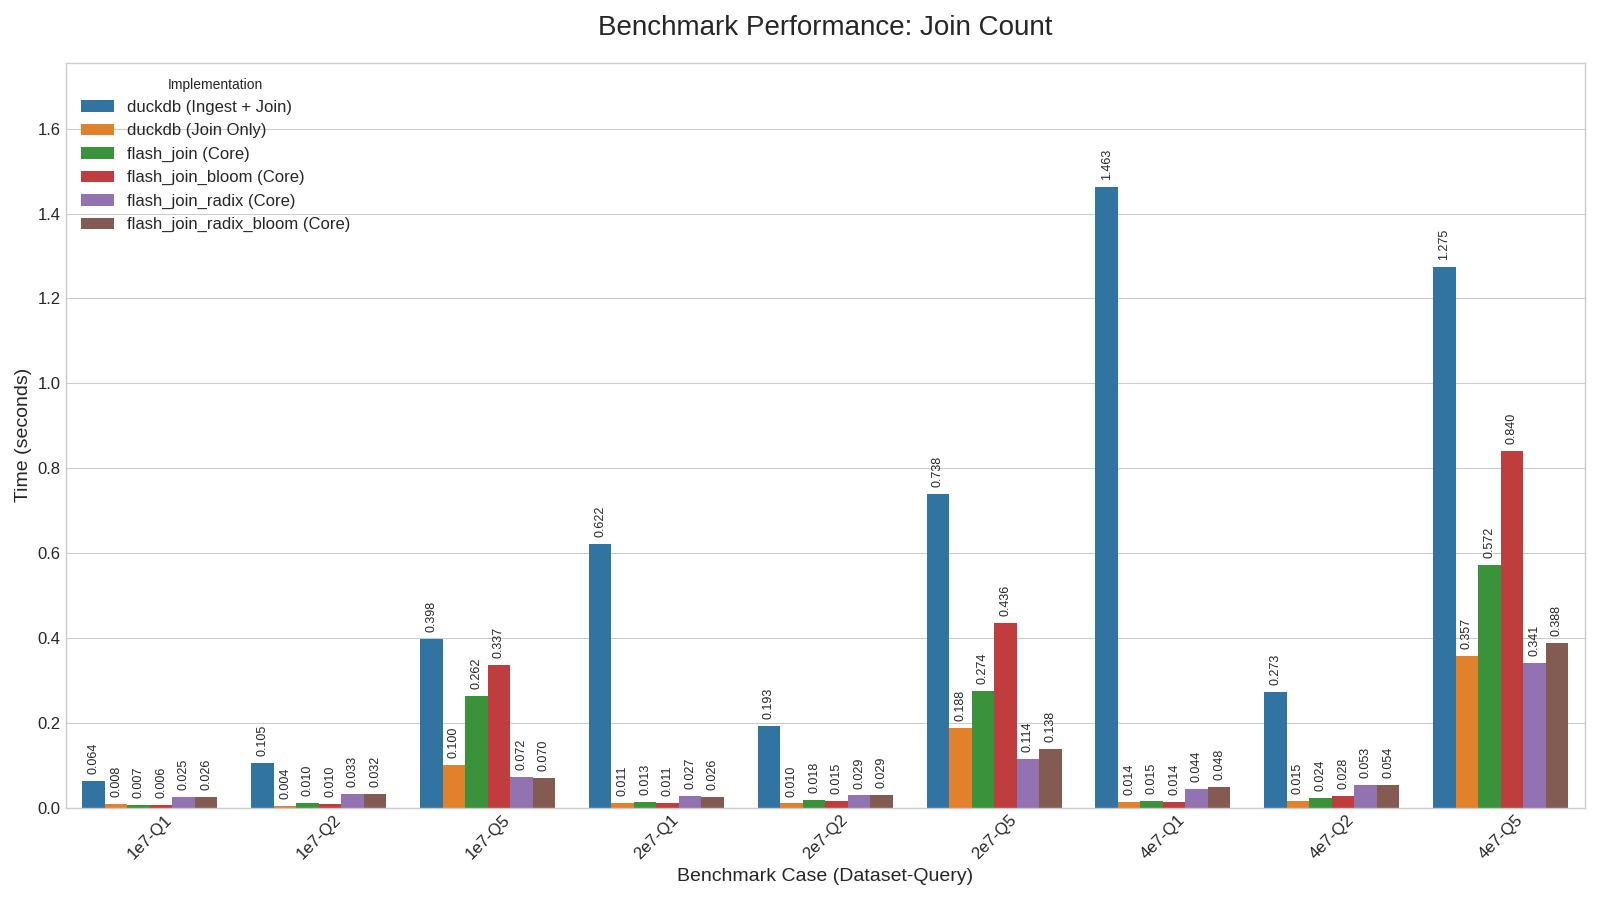
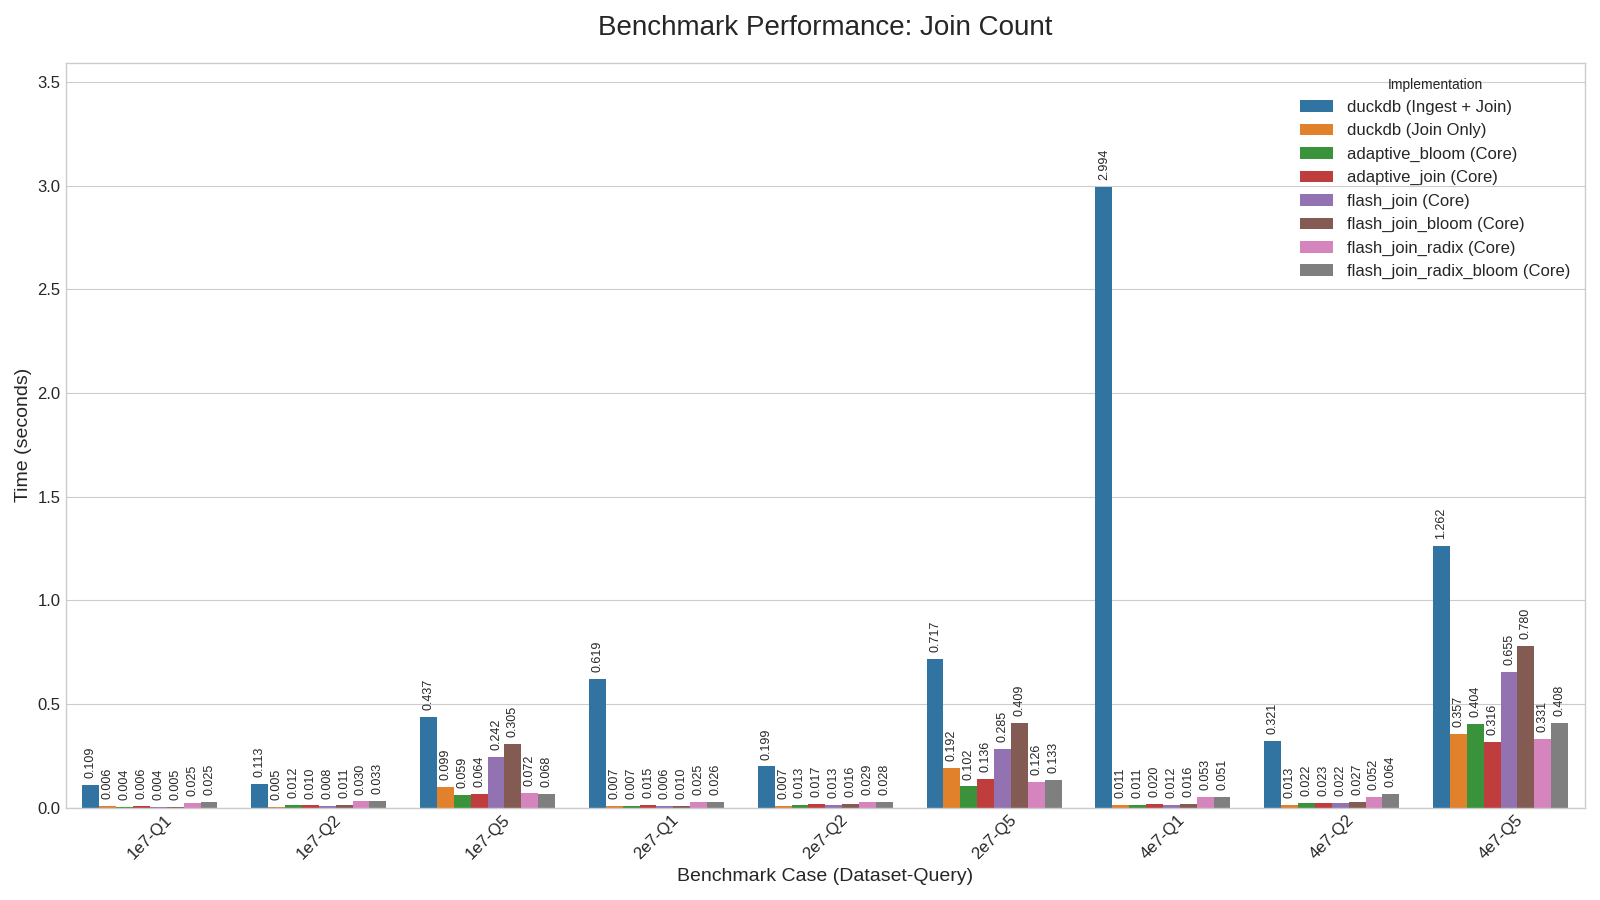
Add adaptive join

diff --git a/hash_join.cpp b/hash_join.cpp
@@ -37,13 +37,11 @@ namespace py = pybind11;
 // ==========================================================================================
 constexpr size_t RADIX_BITS = 8;
 constexpr size_t NUM_PARTITIONS = 1 << RADIX_BITS;
-
 uint64_t hash64(uint64_t key, uint32_t seed) {
     uint64_t k = 0x8648DBDB;
     uint64_t crc = _mm_crc32_u64(seed, key);
     return crc * ((k << 32) + 1);
 }
-
 class SimpleTimer {
 public:
     SimpleTimer() : start_time_(std::chrono::high_resolution_clock::now()) {}
@@ -55,12 +53,10 @@ public:
 private:
     std::chrono::time_point<std::chrono::high_resolution_clock> start_time_;
 };
-
 template<typename KeyType>
 struct Hasher {
     uint64_t operator()(const KeyType& key) const { return hash64(key, 0xAAAAAAAA); }
 };
-
 namespace internal {
     constexpr size_t TAGS_TABLE_SIZE = 1 << 11;
     constexpr auto create_tags_table() {
@@ -76,7 +72,6 @@ namespace internal {
         return table;
     }
 }
-
 template<bool UseBloomFilter = false>
 class FlashHashTable {
 public:
@@ -88,6 +83,7 @@ private:
         uint64_t key;
         uint64_t value;
     };
+
     std::unique_ptr<Slot[]> slots_;
     std::unique_ptr<std::atomic<uint16_t>[]> bloom_directory_;
     size_t capacity_;
@@ -184,7 +180,6 @@ public:
         }
         return match_count;
     }
-
     inline uint16_t get_bloom_tag(uint64_t hash) const { return tags_table_[(static_cast<uint32_t>(hash)) >> (32 - 11)]; }
 
     inline bool check_bloom_filter(uint64_t hash) const {
@@ -194,7 +189,7 @@ public:
     }
 
     void build_local(const uint64_t* keys, const uint64_t* values, size_t size) { for (size_t i = 0; i < size; ++i) { this->insert_local(keys[i], values[i]); } }
-    
+
     void build_concurrent(const uint64_t* keys, const uint64_t* values, size_t size) {
         size_t num_threads = std::max(1u, std::thread::hardware_concurrency());
         size_t work_per_thread = (size + num_threads - 1) / num_threads;
@@ -297,7 +292,7 @@ parallel_radix_partition_k(const uint64_t* keys, size_t size, size_t num_threads
 }
 
 // ==========================================================================================
-// SECTION 3 & 4: FINALIZED HYBRID JOIN FUNCTIONS & PYBIND MODULE
+// SECTION 3: UNDERLYING JOIN IMPLEMENTATIONS
 // ==========================================================================================
 #if defined(__cpp_lib_hardware_interference_size)
     constexpr size_t CACHE_LINE_SIZE = std::hardware_destructive_interference_size;
@@ -306,6 +301,16 @@ parallel_radix_partition_k(const uint64_t* keys, size_t size, size_t num_threads
 #endif
 constexpr size_t PROBE_BATCH_SIZE = 2048;
 struct alignas(CACHE_LINE_SIZE) PaddedCounter { std::atomic<size_t> value{0}; };
+
+
+template <typename HashTableType>
+py::tuple _hash_join_radix_materialize(py::array_t<uint64_t> b_k, py::array_t<uint64_t> b_v, py::array_t<uint64_t> p_k);
+template<typename HashTableType>
+py::tuple _hash_join_scalar_materialize(py::array_t<uint64_t> b_k, py::array_t<uint64_t> b_v, py::array_t<uint64_t> p_k);
+template <typename HashTableType>
+py::tuple _hash_join_radix_count(py::array_t<uint64_t> b_k, py::array_t<uint64_t> b_v, py::array_t<uint64_t> p_k);
+template<typename HashTableType>
+py::tuple _hash_join_scalar_count(py::array_t<uint64_t> b_k, py::array_t<uint64_t> b_v, py::array_t<uint64_t> p_k);
 
 template <typename HashTableType>
 py::tuple _hash_join_radix_materialize(py::array_t<uint64_t> b_k, py::array_t<uint64_t> b_v, py::array_t<uint64_t> p_k) {
@@ -382,19 +387,11 @@ py::tuple _hash_join_scalar_materialize(py::array_t<uint64_t> b_k, py::array_t<u
     size_t probe_size = p_k_buf.size;
     size_t build_size = b_k_buf.size;
     size_t num_threads = std::max(1u, std::thread::hardware_concurrency());
-    
     SimpleTimer timer;
-    
     HashTableType ht(build_size);
     ht.build_concurrent(static_cast<uint64_t*>(b_k_buf.ptr), static_cast<uint64_t*>(b_v_buf.ptr), build_size);
-
-    // --- HYBRID STRATEGY ---
-    // Heuristic: If build table is small, it fits in L3 cache. The two-pass
-    // method is faster as it avoids an extra memory copy of the results.
     constexpr size_t SMALL_TABLE_THRESHOLD = 500'000;
-
     if (build_size <= SMALL_TABLE_THRESHOLD) {
-        // --- PATH 1: Small Table (Two-Pass, Cache-Hot Re-Probe) ---
         std::vector<PaddedCounter> counts_per_thread(num_threads);
         std::vector<std::thread> threads;
         size_t work_per_thread = (probe_size + num_threads - 1) / num_threads;
@@ -445,10 +442,7 @@ py::tuple _hash_join_scalar_materialize(py::array_t<uint64_t> b_k, py::array_t<u
         for (auto& t : threads) { t.join(); }
         double core_duration_sec = timer.elapsed_seconds();
         return py::make_tuple(py::int_(total_results), core_duration_sec);
-
     } else {
-        // --- PATH 2: Large Table (Single-Pass with Local Buffers) ---
-        // This avoids a costly memory-bound re-probe.
         std::vector<std::vector<uint64_t>> local_result_keys(num_threads);
         std::vector<std::vector<uint64_t>> local_result_values(num_threads);
         std::vector<std::thread> threads;
@@ -572,18 +566,75 @@ py::tuple _hash_join_scalar_count(py::array_t<uint64_t> b_k, py::array_t<uint64_
     return py::make_tuple(py::int_(total_results), core_duration_sec);
 }
 
+
+// ==========================================================================================
+// SECTION 4: NEW ADAPTIVE JOIN DISPATCHER & PYBIND MODULE
+// ==========================================================================================
+
+// This threshold determines when to switch from a single global hash table (scalar)
+// to a partitioned approach (radix). 1M rows is a reasonable starting point.
+constexpr size_t RADIX_JOIN_THRESHOLD = 1'000'000;
+
+template <typename HashTableType>
+py::tuple adaptive_hash_join_materialize(py::array_t<uint64_t> b_k, py::array_t<uint64_t> b_v, py::array_t<uint64_t> p_k) {
+    if (b_k.request().size < RADIX_JOIN_THRESHOLD) {
+        return _hash_join_scalar_materialize<HashTableType>(b_k, b_v, p_k);
+    } else {
+        return _hash_join_radix_materialize<HashTableType>(b_k, b_v, p_k);
+    }
+}
+
+template <typename HashTableType>
+py::tuple adaptive_hash_join_count(py::array_t<uint64_t> b_k, py::array_t<uint64_t> b_v, py::array_t<uint64_t> p_k) {
+    if (b_k.request().size < RADIX_JOIN_THRESHOLD) {
+        return _hash_join_scalar_count<HashTableType>(b_k, b_v, p_k);
+    } else {
+        return _hash_join_radix_count<HashTableType>(b_k, b_v, p_k);
+    }
+}
+
 void initialize_memory_system() { mi_version(); }
 
 PYBIND11_MODULE(flash_join, m) {
     initialize_memory_system();
-    m.doc() = "A high-performance hash join with micro-architectural optimizations"; 
-    m.def("hash_join_radix", &_hash_join_radix_materialize<FlashHashTable<false>>, "", py::arg("build_keys"), py::arg("build_values"), py::arg("probe_keys"));
-    m.def("hash_join", &_hash_join_scalar_materialize<FlashHashTable<false>>, "", py::arg("build_keys"), py::arg("build_values"), py::arg("probe_keys"));
+    m.doc() = "A high-performance hash join library with adaptive and explicit strategies."; 
+
+    // --- NEW: Adaptive, user-facing API ---
+    m.def("adaptive_join", &adaptive_hash_join_materialize<FlashHashTable<false>>, 
+        "Adaptively chooses between scalar and radix join for materialization.", 
+        py::arg("build_keys"), py::arg("build_values"), py::arg("probe_keys"));
+    
+    m.def("adaptive_join_bloom", &adaptive_hash_join_materialize<FlashHashTable<true>>, 
+        "Adaptive join with bloom filter for materialization.", 
+        py::arg("build_keys"), py::arg("build_values"), py::arg("probe_keys"));
+
+    m.def("adaptive_join_count", &adaptive_hash_join_count<FlashHashTable<false>>, 
+        "Adaptively chooses between scalar and radix join for counting.", 
+        py::arg("build_keys"), py::arg("build_values"), py::arg("probe_keys"));
+
+    m.def("adaptive_join_count_bloom", &adaptive_hash_join_count<FlashHashTable<true>>, 
+        "Adaptive join with bloom filter for counting.", 
+        py::arg("build_keys"), py::arg("build_values"), py::arg("probe_keys"));
+
+
+    // --- OLD: Explicit APIs for benchmarking and fine-grained control ---
+    m.def("hash_join_radix", &_hash_join_radix_materialize<FlashHashTable<false>>, 
+        "Forces the use of radix join for materialization.",
+        py::arg("build_keys"), py::arg("build_values"), py::arg("probe_keys"));
+    m.def("hash_join", &_hash_join_scalar_materialize<FlashHashTable<false>>, 
+        "Forces the use of scalar (non-partitioned) join for materialization.",
+        py::arg("build_keys"), py::arg("build_values"), py::arg("probe_keys"));
     m.def("hash_join_radix_bloom", &_hash_join_radix_materialize<FlashHashTable<true>>, "", py::arg("build_keys"), py::arg("build_values"), py::arg("probe_keys"));
     m.def("hash_join_bloom", &_hash_join_scalar_materialize<FlashHashTable<true>>, "", py::arg("build_keys"), py::arg("build_values"), py::arg("probe_keys"));
-    m.def("hash_join_count_radix", &_hash_join_radix_count<FlashHashTable<false>>, "", py::arg("build_keys"), py::arg("build_values"), py::arg("probe_keys"));
-    m.def("hash_join_count", &_hash_join_scalar_count<FlashHashTable<false>>, "", py::arg("build_keys"), py::arg("build_values"), py::arg("probe_keys"));
+    
+    m.def("hash_join_count_radix", &_hash_join_radix_count<FlashHashTable<false>>, 
+        "Forces the use of radix join for counting.",
+        py::arg("build_keys"), py::arg("build_values"), py::arg("probe_keys"));
+    m.def("hash_join_count", &_hash_join_scalar_count<FlashHashTable<false>>, 
+        "Forces the use of scalar (non-partitioned) join for counting.",
+        py::arg("build_keys"), py::arg("build_values"), py::arg("probe_keys"));
     m.def("hash_join_count_radix_bloom", &_hash_join_radix_count<FlashHashTable<true>>, "", py::arg("build_keys"), py::arg("build_values"), py::arg("probe_keys"));
     m.def("hash_join_count_bloom", &_hash_join_scalar_count<FlashHashTable<true>>, "", py::arg("build_keys"), py::arg("build_values"), py::arg("probe_keys"));
+    
     m.def("initialize", &initialize_memory_system, "Initializes the custom memory allocator.");
 }

diff --git a/benchmark.py b/benchmark.py
@@ -238,6 +238,8 @@ def main():
             
             # --- flash_join Benchmarks ---
             impl_map = {
+                'adaptive_join': (flash_join.adaptive_join_count, flash_join.adaptive_join),
+                'adaptive_bloom': (flash_join.adaptive_join_count_bloom, flash_join.adaptive_join_bloom),
                 'flash_join': (flash_join.hash_join_count, flash_join.hash_join),
                 'flash_join_radix': (flash_join.hash_join_count_radix, flash_join.hash_join_radix),
                 'flash_join_bloom': (flash_join.hash_join_count_bloom, flash_join.hash_join_bloom),
